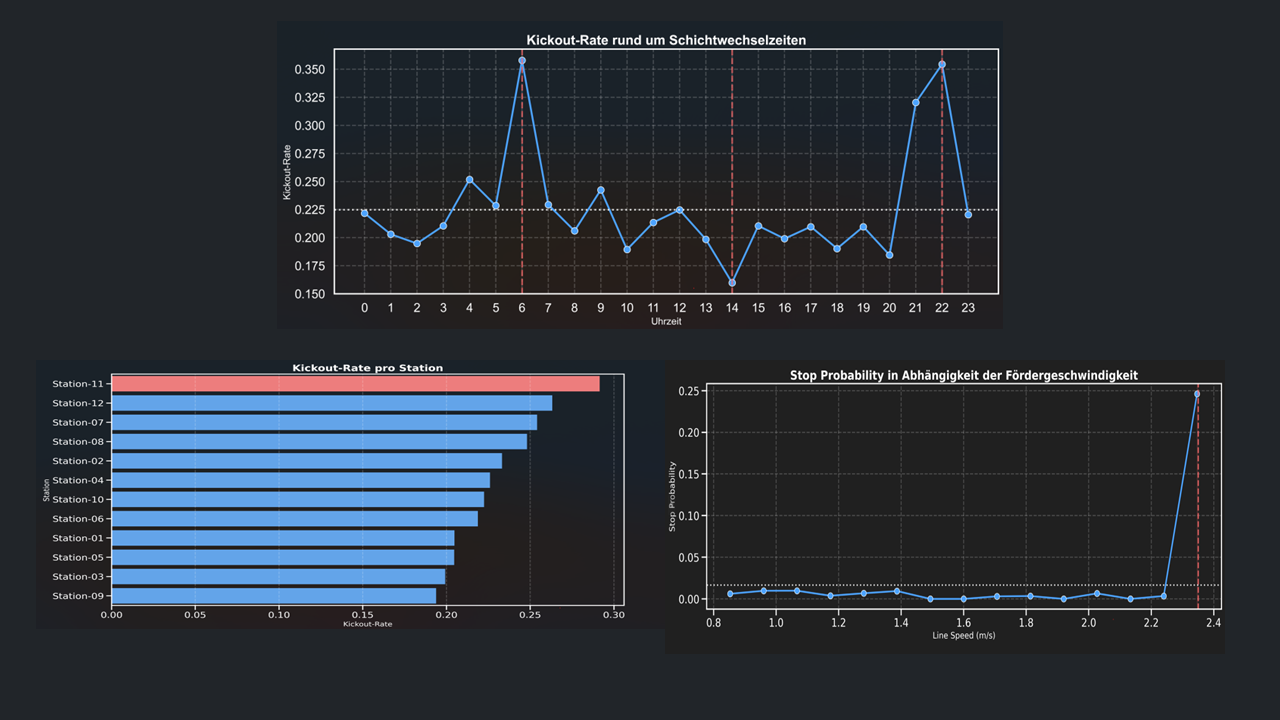
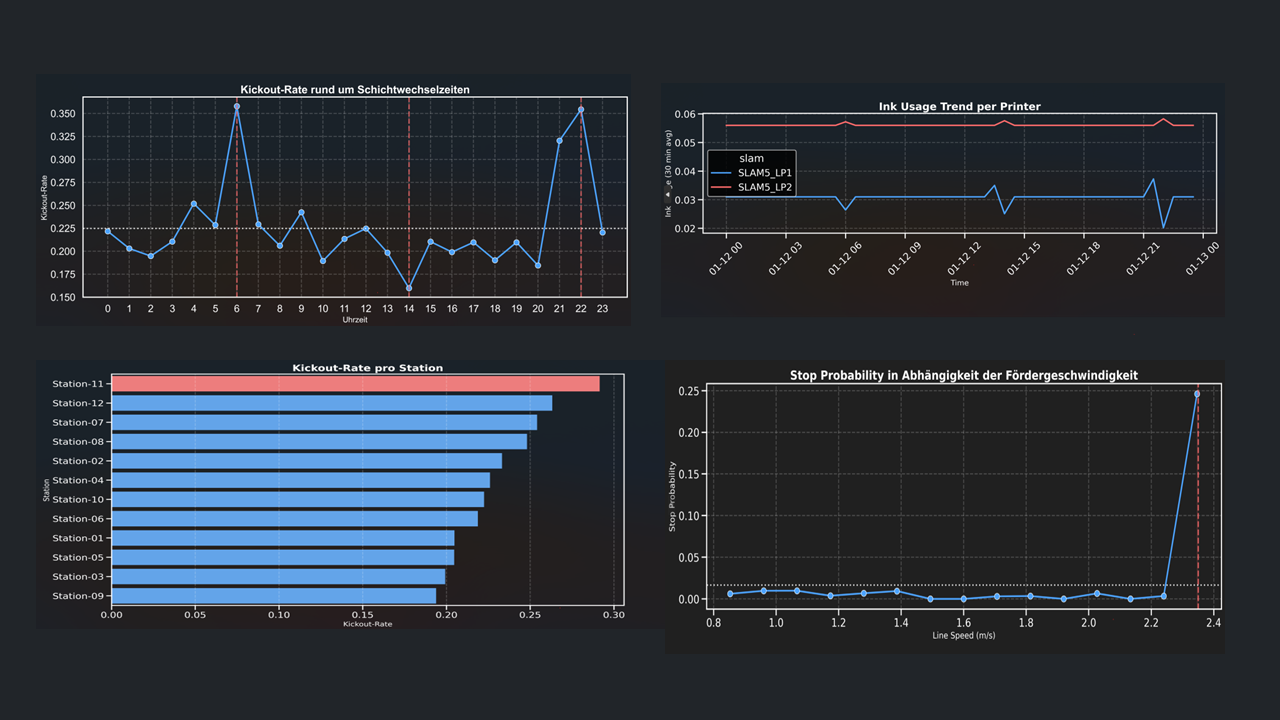
update links for github sources

Changed region(s): [[0.0312, 0.0306, 0.9688, 0.4583], [0.9375, 0.3361, 0.9688, 0.3667], [0.875, 0.2444, 0.9062, 0.275]]

diff --git a/webpage/useful/insight.py b/webpage/useful/insight.py
@@ -70,6 +70,8 @@ with st.expander(":material/arrow_drop_down: :violet[**ETL**]"):
              \nThe data is then aggregated on shipment level and enriched with relevant features such as weight differences, relative deviations, and kickout indicators.\
              \nIn addition, a mapping logic is implemented to assign production stops to the corresponding previous shipment.\
              \n\n**The final dataset is stored in a SQLite database and serves as the foundation for further analysis and machine learning.**")
+    st.write(
+        "**ETL-Pipeline:** [Github](https://github.com/mohamaddataeng/log-machine-pipeline/tree/main/scripts)")
 
 # showing expander for EDA description
 with st.expander(":material/arrow_drop_down: :violet[**The EDA**]"):
@@ -128,7 +130,7 @@ with st.expander(":material/arrow_drop_down: :violet[**Website-Portal & Configur
              \n\nIn the third and most extensive step, I developed and deployed all Streamlit Python files, including the corresponding content for KPIs, dashboards, functionalities, tables, and other components.\
              \nIn parallel, I applied exploratory data analysis (EDA) to identify and present the most relevant KPIs and visualizations.\
              \n\n**Result:** The [AWS-Portal](http://54.225.90.74/) :grey[(sign in with login and PW avoding bot-attacks)], and in addition the  [streamlit.io-Portal](https://dsimlnappio-dsi-finalproject.streamlit.app/) :grey[(free access)]")
-
+    st.write("**Python Environment:** [Github](https://github.com/MamicGit/Proj_Machine-Log-Navigator/tree/main/webpage)")
 st.divider()
 
 # # # # # # # # # # # # # # # # # # # # # # # # # # # # # # # # # # # # # # # # # # # # #
